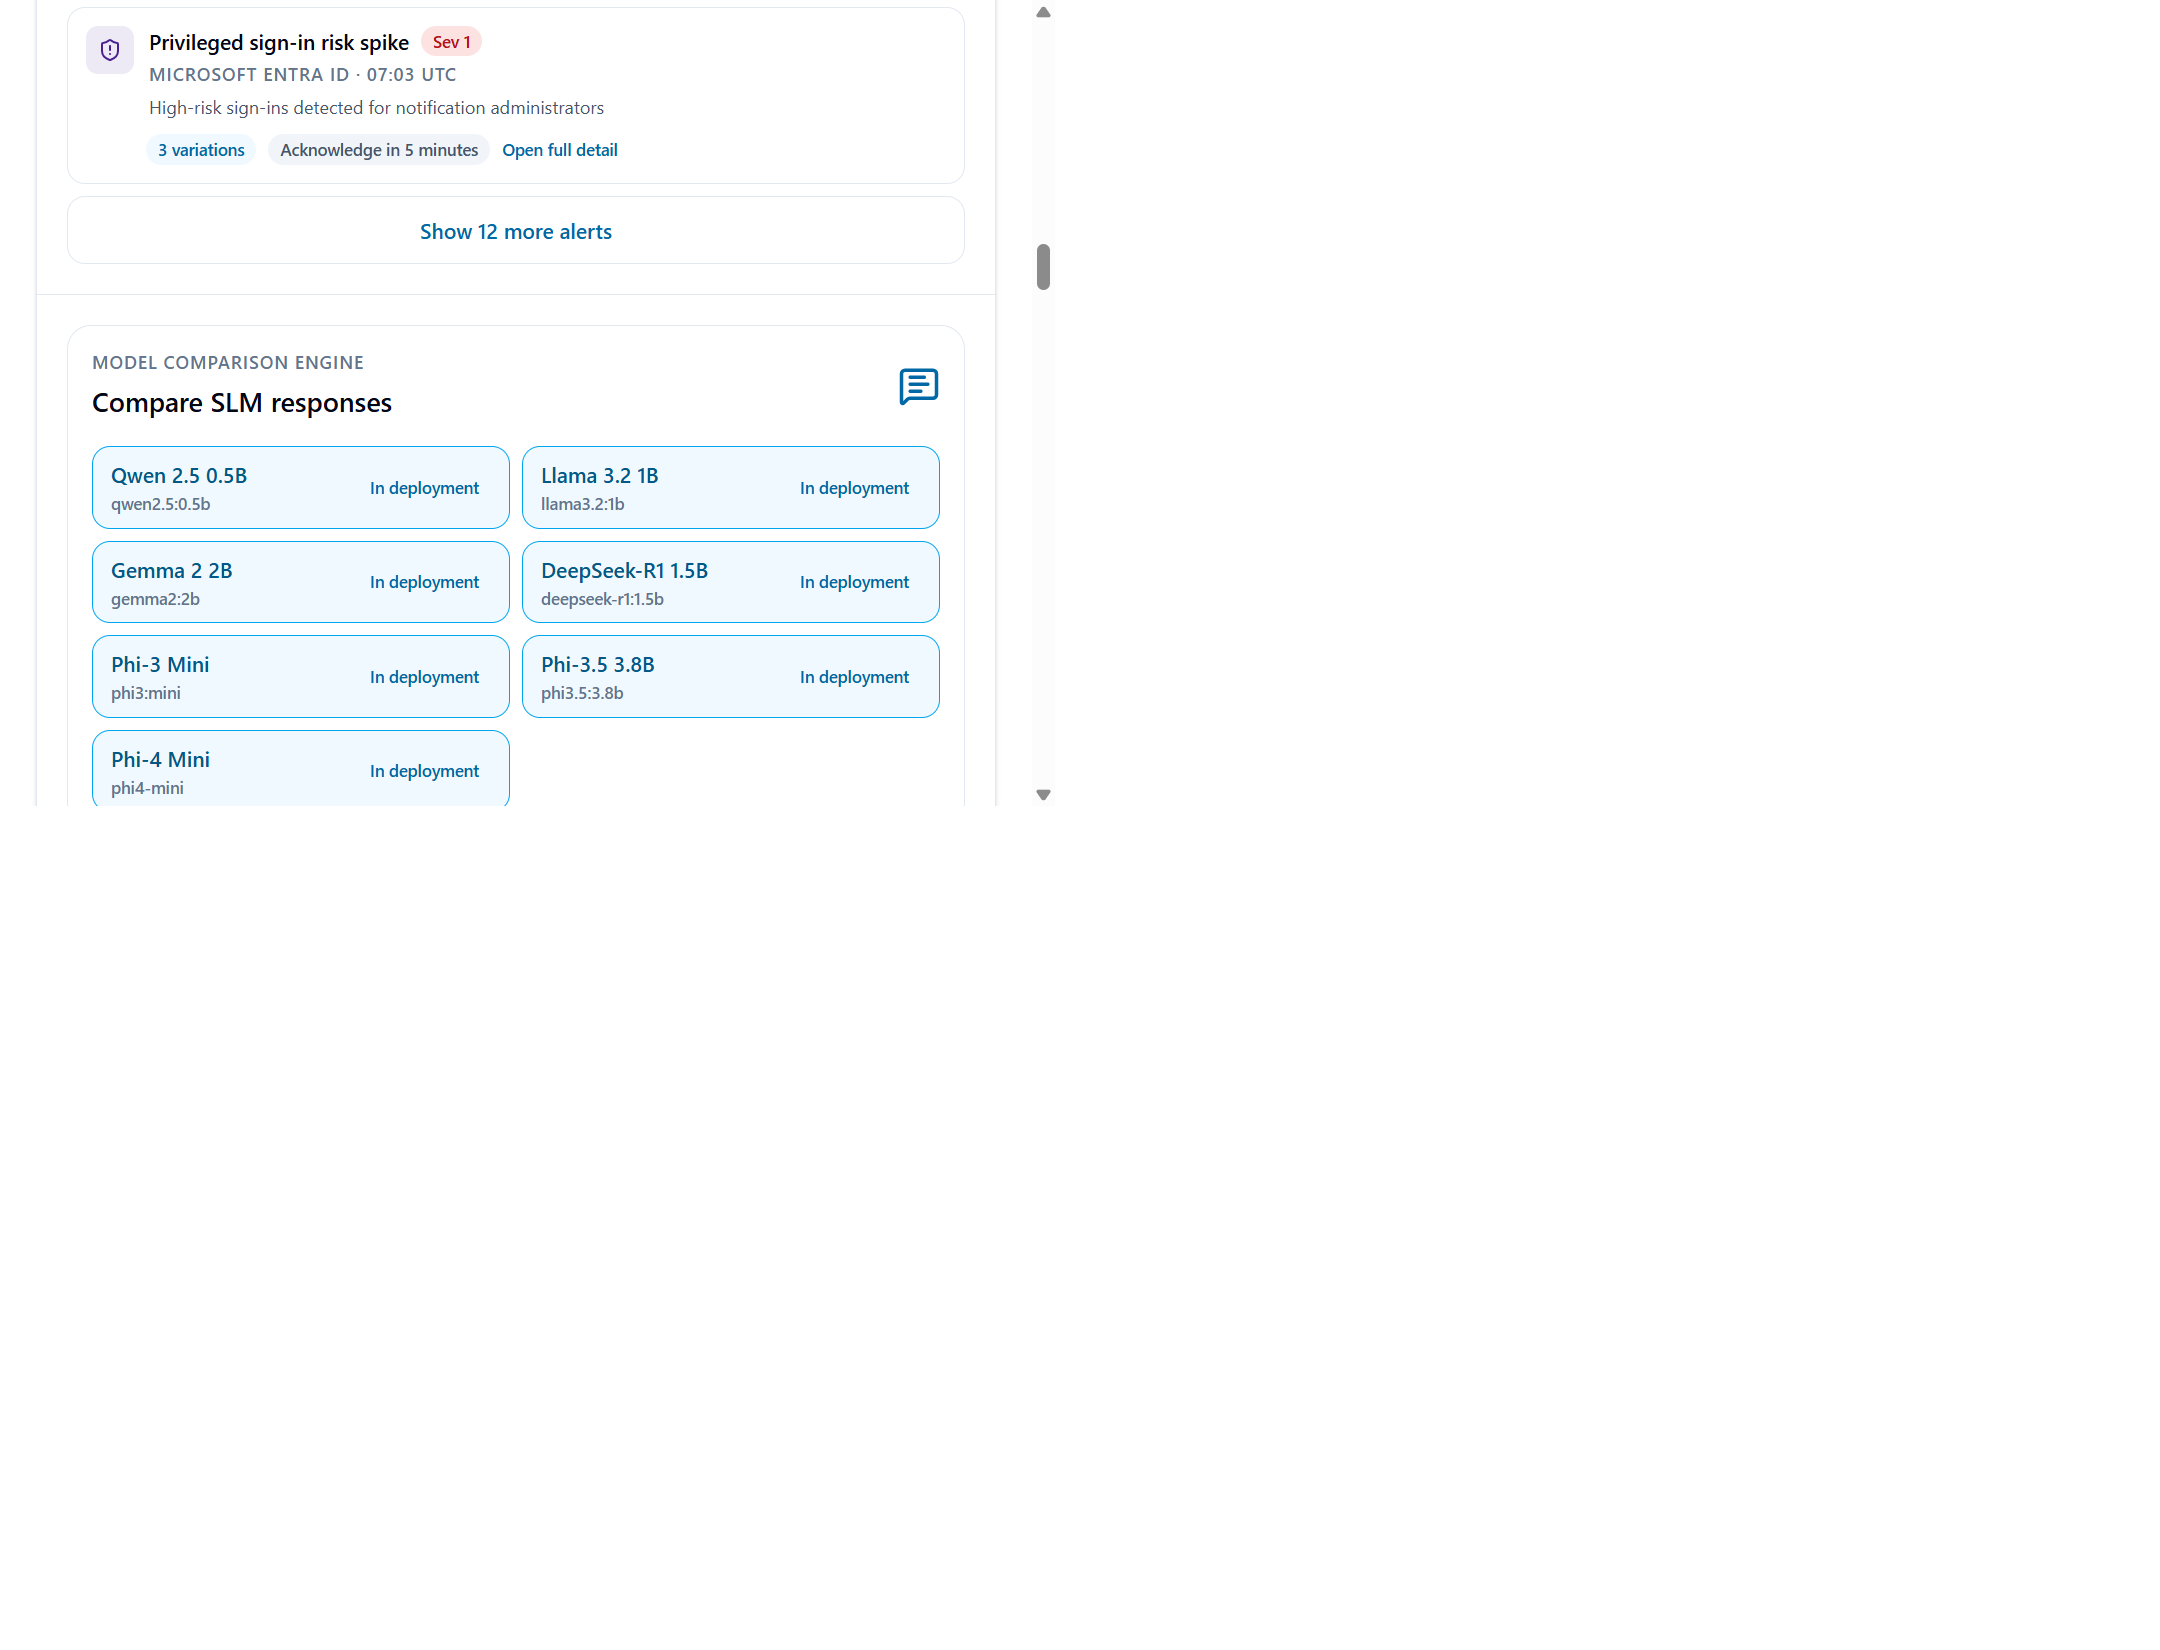
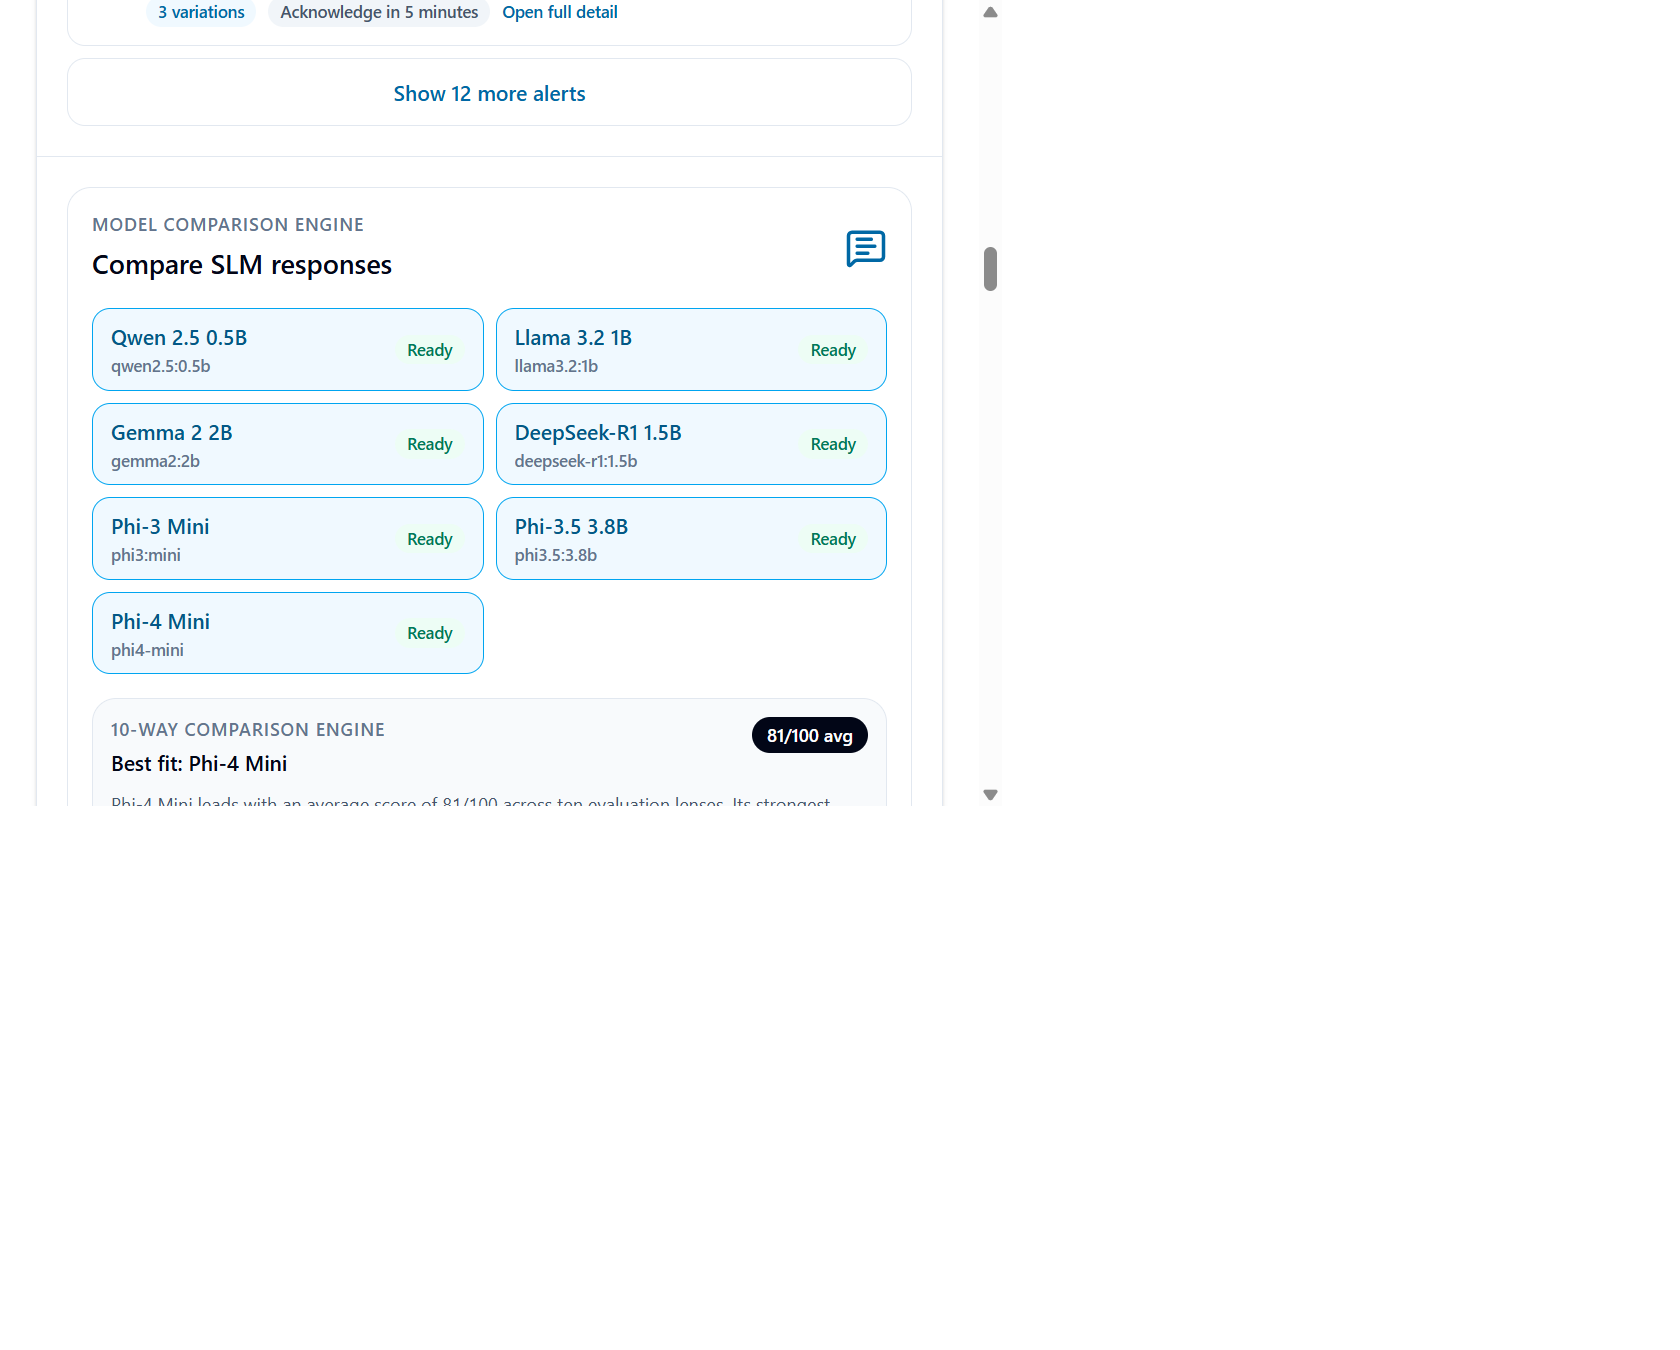
Update model comparison screenshots

diff --git a/README.md b/README.md
@@ -6,6 +6,13 @@ Phase 1 scaffolding for the JSON-driven Supabase + Temporal starter.
 
 A live walkthrough of the running stack (`docker compose up -d`), captured from the deployment at http://localhost:3000.
 
+### Model Comparison Engine
+Compare small language models for Azure incident response across Azure alert context, runtime fit, reasoning depth, customer clarity, validation quality, and operator-ready recommendations.
+
+![Model Comparison Engine overview](docs/screenshots/model-comparison-lens-full-page.png)
+
+![Model Comparison Engine lens matrix](docs/screenshots/model-comparison-lens-matrix.png)
+
 ### Local Models Playground
 Small language models served locally in Docker. Models are grouped with the Microsoft Phi family first, each card showing parameters, on-disk size, quantization and "best for" guidance.
 